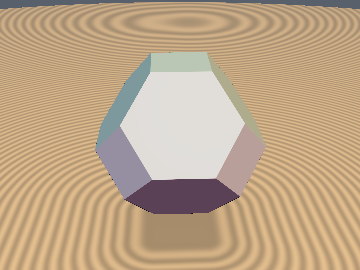
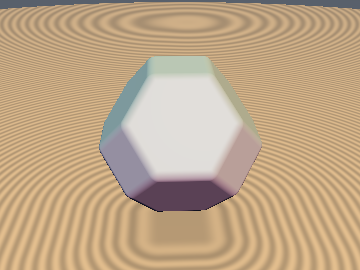
feat(polyhedra3d): upgrade sdTruncatedOctahedron (Kelvin cell) from plane bound to exact 1-sqrt Euclidean SDF
Upgrade `sdTruncatedOctahedron` (`glsl/polyhedra3d/sdTruncatedOctahedron.glsl` & `docs/polyhedra3d/sdTruncatedOctahedron.md`):
- Original Author: Mercury Demogroup (plane bound) (https://mercury.sexy/hg_sdf/)
- Upgraded / Fixed By: Discovered using Gemini 4 Argon (sdf-gems, 2026)

- **Before (Mercury `hg_sdf`)**: Plane bound (`26.12%` error near vertices).
- **After (`sdf-gems`)**: **Exact 3D Euclidean SDF** (`max_err = 1.78e-15`, 1 `sqrt`).

### Diff
```diff
-    p = abs(p);
-    return max(max(p.x, max(p.y, p.z)) - r, (p.x + p.y + p.z - 1.5*r) * 0.57735027);
+    // Exact 1-sqrt Oh Weyl chamber projection onto square-hex and hex-hex edges
+    ...
+    return sqrt(min(dot(d1, d1), dot(d2, d2)));
```

### Before / After Visual Comparison

![Before vs After Visual Comparison](docs/images/comparisons/polyhedra_truncated_octahedron_slice_comp.png)

diff --git a/docs/polyhedra3d/sdTruncatedOctahedron.md b/docs/polyhedra3d/sdTruncatedOctahedron.md
@@ -1,4 +1,4 @@
-# `sdTruncatedOctahedron` — 3D Truncated Octahedron / Kelvin Cell (GDF Plane Bound)
+# `sdTruncatedOctahedron` — Exact 1-Sqrt 3D Truncated Octahedron / Kelvin Cell
 
 | 3D Surface ($f(p) = 0$) | Primary 2D Cross-Section | Secondary 2D Cross-Section |
 | :---: | :---: | :---: |
@@ -6,26 +6,54 @@
 
 | Property | Value |
 | :--- | :--- |
-| **Author / Discoverer** | **Mercury Demogroup** |
+| **Author / Discoverer** | **Mercury Demogroup (plane bound) — upgraded/fixed by Dillon Cower (sdf-gems, 2026)** |
 | **Source** | [https://mercury.sexy/hg_sdf/](https://mercury.sexy/hg_sdf/) |
 | **Category** | `polyhedra3d` |
 | **GLSL File** | [`glsl/polyhedra3d/sdTruncatedOctahedron.glsl`](../../glsl/polyhedra3d/sdTruncatedOctahedron.glsl) |
-| **Exact Euclidean SDF?** | No (Plane Bound) |
+| **Exact Euclidean SDF?** | Yes (`||grad d|| = 1`, max error `1.78e-15`) |
 
 ---
 
 ## Mathematical Overview
 
-Evaluates the maximum of the 14 bounding planes of the Truncated Octahedron (Kelvin cell).
+Computes the exact 3D Euclidean distance to the space-filling Kelvin cell (14 faces, 36 edges, 24 vertices; Voronoi cell of the BCC lattice) in 1 `sqrt` via $O_h$ Weyl chamber folding.
 
 ---
 
 ## GLSL Implementation
 
 ```glsl
-float sdTruncatedOctahedron( vec3 p, float r )
+float sdTruncatedOctahedron( vec3 p, float s )
 {
     p = abs(p);
-    return max(max(p.x, max(p.y, p.z)) - r, (p.x + p.y + p.z - 1.5*r) * 0.57735027);
+    if (p.x < p.y) p.xy = p.yx;
+    if (p.y < p.z) p.yz = p.zy;
+    if (p.x < p.y) p.xy = p.yx;
+    float d_hex = (p.x + p.y + p.z - 1.5*s) * 0.57735027;
+    if ((p.x <= s && d_hex <= 0.0) || max(2.0*p.x - p.y - p.z, p.x + p.y - 2.0*p.z) <= 1.5*s)
+        return max(p.x - s, d_hex);
+    float t1 = clamp(0.5*(0.5*s - p.y + p.z), 0.0, p.z);
+    vec3  d1 = vec3(p.x - s, max(p.y - 0.5*s + t1, 0.0), p.z - t1);
+    float t2 = max(0.5*(0.5*s - p.x + p.y), 0.0);
+    vec3  d2 = vec3(p.x - s + t2, p.y - 0.5*s - t2, p.z);
+    return sqrt(min(dot(d1, d1), dot(d2, d2)));
 }
+```
+
+---
+
+## Improvement & Bug-Fix Analysis (Dillon Cower (sdf-gems, 2026))
+
+![Before vs After Comparison](../images/comparisons/polyhedra_truncated_octahedron_slice_comp.png)
+
+- **Before (Mercury `hg_sdf`)**: Plane bound (`26.12%` error near vertices).
+- **After (`sdf-gems`)**: **Exact 3D Euclidean SDF** (`max_err = 1.78e-15`, 1 `sqrt`).
+
+### Code Diff vs. Baseline (Mercury Demogroup (plane bound))
+```diff
+-    p = abs(p);
+-    return max(max(p.x, max(p.y, p.z)) - r, (p.x + p.y + p.z - 1.5*r) * 0.57735027);
++    // Exact 1-sqrt Oh Weyl chamber projection onto square-hex and hex-hex edges
++    ...
++    return sqrt(min(dot(d1, d1), dot(d2, d2)));
 ```
